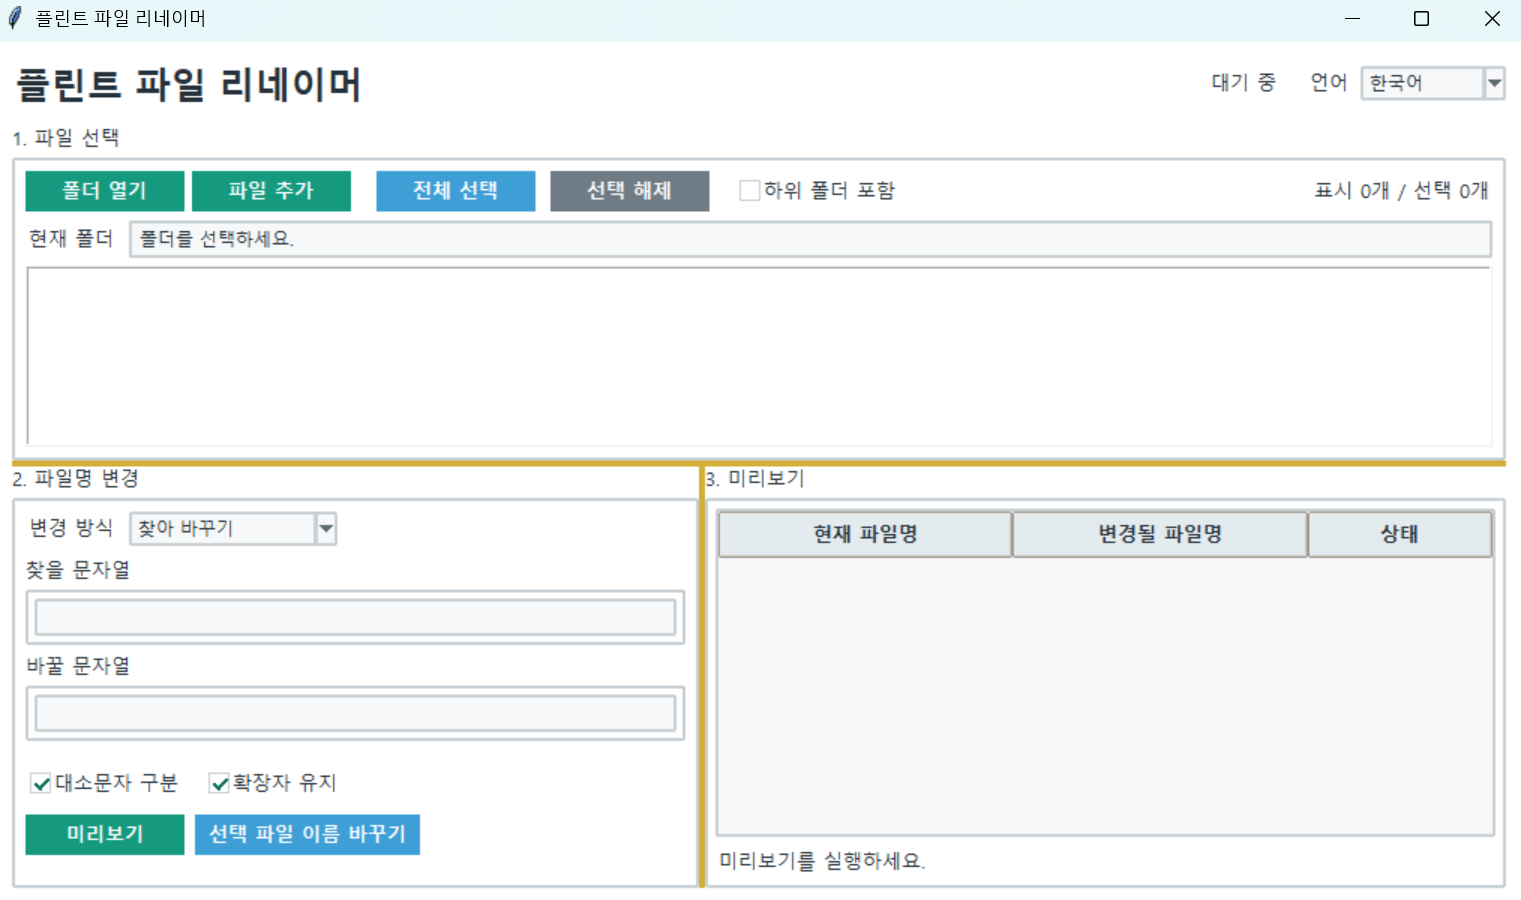
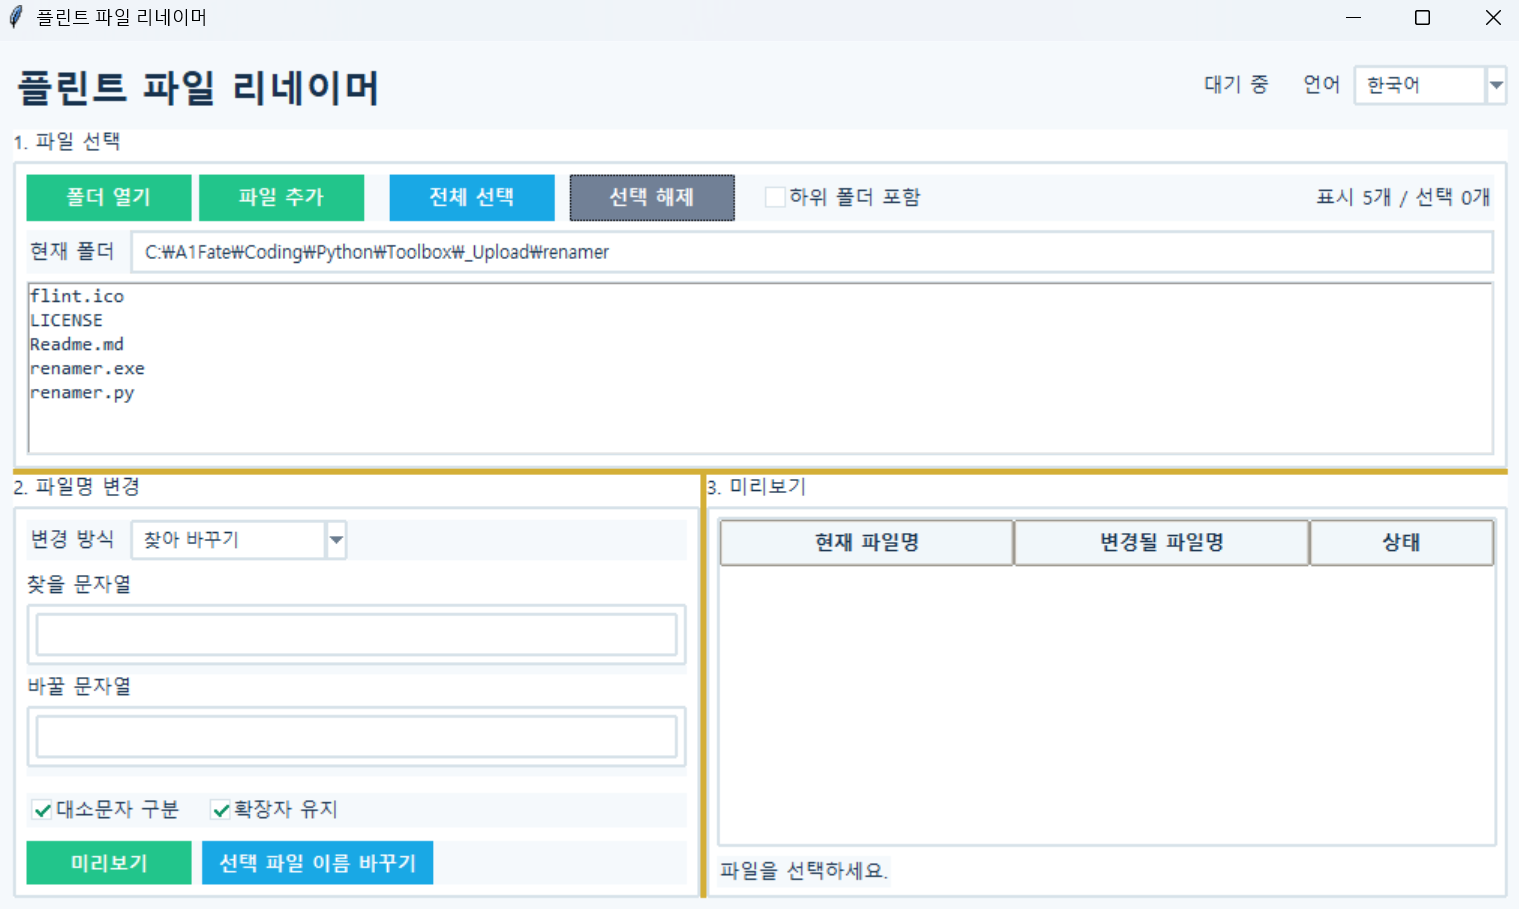
Update badamail: 8 files

diff --git a/toolbox/ffr.html b/toolbox/ffr.html
@@ -1,0 +1,65 @@
+<!doctype html>
+<html lang="ko">
+<head>
+  <meta charset="utf-8">
+  <meta name="viewport" content="width=device-width, initial-scale=1">
+  <title>플린트 파일 리네이머 | 플린트의 공구함</title>
+  <meta name="description" content="여러 파일의 이름을 한 번에 변경하는 도구입니다. 단순한 문자열 치환뿐 아니라 문자열 삭제, 앞·뒤 문자열 추가, 번호 붙이기, 이름과 번호를 이용한 일괄 변경을 지원합니다.">
+  <meta name="robots" content="index, follow">
+  <meta property="og:site_name" content="Blackship">
+  <meta property="og:title" content="플린트 파일 리네이머 | 플린트의 공구함">
+  <meta property="og:description" content="여러 파일의 이름을 한 번에 변경하는 도구입니다. 단순한 문자열 치환뿐 아니라 문자열 삭제, 앞·뒤 문자열 추가, 번호 붙이기, 이름과 번호를 이용한 일괄 변경을 지원합니다.">
+  <meta property="og:type" content="website">
+  <link rel="alternate" hreflang="ko" href="https://blackship.kr/toolbox/ffr.html">
+  <link rel="alternate" hreflang="en" href="https://blackship.kr/en/toolbox/ffr.html">
+  <link rel="alternate" hreflang="x-default" href="https://blackship.kr/toolbox/ffr.html">
+  <link rel="icon" href="../favicon.ico" type="image/x-icon">
+  <link rel="stylesheet" href="../style.css">
+</head>
+<body>
+  <header class="site-header">
+    <a class="logo" href="../index.html">Blackship</a>
+    <nav class="nav">
+
+      <a href="../index.html">홈</a>
+      <a href="../hidden.html">💎 숨은 보물</a>
+      <a href="../value.html">💰 가성비 보물</a>
+      <a href="../popular.html">🔥 인기 보물</a>
+      <a href="../random.html">🎲 랜덤 보물</a>
+      <a href="../toolbox.html">🧰 공구함</a>
+      <a href="../badamail.html">바다메일</a>
+    </nav>
+  </header>
+
+  <main>
+    
+        <article class="detail toolbox-detail">
+          <div class="toolbox-detail-media">
+            <img src="images/ffr.png" alt="플린트 파일 리네이머" loading="lazy">
+          </div>
+          <div class="toolbox-detail-content">
+            <h1>플린트 파일 리네이머</h1>
+            <p class="toolbox-detail-version">버전: 1.0.0</p>
+            <div class="toolbox-detail-description">
+              <h2>Flint File Renamer</h2><p>여러 파일의 이름을 한 번에 변경하는 도구입니다.</p><p>단순한 문자열 치환뿐 아니라 문자열 삭제, 앞·뒤 문자열 추가, 번호 붙이기, 이름과 번호를 이용한 일괄 변경을 지원합니다.</p><h3>사용 방법</h3><ol><li><code>폴더 열기</code>를 눌러 파일이 있는 폴더를 선택합니다.</li><li>이름을 변경할 파일을 선택합니다.</li><li><code>변경 방식</code>에서 원하는 이름 변경 방식을 선택합니다.</li><li>필요한 문자열이나 번호 설정을 입력합니다.</li><li>오른쪽 미리보기에서 변경될 파일명을 확인합니다.</li><li><code>선택 파일 이름 바꾸기</code>를 눌러 변경합니다.</li></ol><h3>변경 방식</h3><ul><li><code>찾아 바꾸기</code>: 파일명에서 특정 문자열을 찾아 다른 문자열로 변경</li><li><code>문자열 삭제</code>: 파일명에서 지정한 문자열 삭제</li><li><code>앞에 붙이기</code>: 기존 파일명 앞에 문자열 추가</li><li><code>뒤에 붙이기</code>: 기존 파일명 뒤에 문자열 추가</li><li><code>번호 붙이기</code>: 기존 파일명 뒤에 순번 추가</li><li><code>이름 + 번호</code>: 지정한 기본 이름과 순번으로 파일명 통일</li></ul><p>번호를 사용하는 방식에서는 시작 번호와 자릿수를 지정할 수 있습니다.</p><p>예시:</p><pre><code class="language-text">photo.jpg
+photo_001.jpg
+photo_002.jpg</code></pre><p>또는:</p><pre><code class="language-text">여행_001.jpg
+여행_002.jpg
+여행_003.jpg</code></pre><h3>주요 기능</h3><ul><li>여러 파일명 일괄 변경</li><li>다양한 이름 변경 방식 지원</li><li>시작 번호 및 번호 자릿수 설정</li><li>변경될 파일명 자동 미리보기</li><li>하위 폴더 포함</li><li>대소문자 구분 선택</li><li>확장자 유지 선택</li><li>중복 파일명 검사</li><li>Windows 금지문자 검사</li><li>기존 파일과의 이름 충돌 방지</li><li>임시 파일명을 이용한 안전한 일괄 변경</li></ul><p>실행:</p><pre><code class="language-bash">python renamer.py</code></pre><blockquote><p><code>참고:</code> 실행 파일(EXE) 버전을 사용하는 경우에는 python 명령을 실행할 필요가 없습니다.</p></blockquote>
+            </div>
+            <div class="toolbox-detail-actions">
+              <a class="buy-button" href="https://github.com/flinthawke/toolbox/releases/download/ffr-v1.0.0/ffr.1.0.0.portable.zip">다운로드</a> <a class="badamail-link" href="https://github.com/flinthawke/toolbox/releases/tag/ffr-v1.0.0" target="_blank" rel="noopener">GitHub에서 소스 보기</a>
+            </div>
+            <p class="toolbox-detail-back"><a class="badamail-link" href="../toolbox.html">공구함으로 돌아가기</a></p>
+          </div>
+        </article>
+        
+  </main>
+
+  <footer class="site-footer">
+    <p>본 프로그램은 있는 그대로(AS IS) 제공됩니다. 사용으로 인해 발생하는 데이터 손실이나 기타 문제에 대해서는 책임을 지지 않습니다.</p>
+    <p>중요한 파일은 반드시 백업한 후 사용하시기 바랍니다.</p>
+  </footer>
+  <img class="visitor-counter-tracker" src="https://hits.sh/blackship.kr.svg?label=visitors&amp;color=000000&amp;labelColor=000000" alt="" width="1" height="1" aria-hidden="true">
+</body>
+</html>

diff --git a/en/toolbox/ffr.html b/en/toolbox/ffr.html
@@ -1,0 +1,72 @@
+<!doctype html>
+<html lang="en">
+<head>
+  <meta charset="utf-8">
+  <meta name="viewport" content="width=device-width, initial-scale=1">
+  <title>Flint File Renamer | Flint&#x27;s Toolbox</title>
+  <meta name="description" content="A tool for renaming multiple files at once. In addition to simple text replacement, it supports removing text, adding prefixes or suffixes, numbering files, and batch renaming using a custom name and sequence numbers.">
+  <meta name="robots" content="index, follow">
+  <meta property="og:site_name" content="Blackship">
+  <meta property="og:title" content="Flint File Renamer | Flint&#x27;s Toolbox">
+  <meta property="og:description" content="A tool for renaming multiple files at once. In addition to simple text replacement, it supports removing text, adding prefixes or suffixes, numbering files, and batch renaming using a custom name and sequence numbers.">
+  <meta property="og:type" content="website">
+  <link rel="alternate" hreflang="ko" href="https://blackship.kr/toolbox/ffr.html">
+  <link rel="alternate" hreflang="en" href="https://blackship.kr/en/toolbox/ffr.html">
+  <link rel="alternate" hreflang="x-default" href="https://blackship.kr/toolbox/ffr.html">
+  <link rel="icon" href="../favicon.ico" type="image/x-icon">
+  <link rel="stylesheet" href="../style.css">
+</head>
+<body>
+  <header class="site-header">
+    <a class="logo" href="../index.html">Blackship</a>
+    <nav class="nav">
+
+      <a href="../index.html">Home</a>
+      <a href="../hidden.html">💎 Hidden Treasures</a>
+      <a href="../value.html">💰 Value Treasures</a>
+      <a href="../popular.html">🔥 Popular Treasures</a>
+      <a href="../random.html">🎲 Random Treasure</a>
+      <a href="../toolbox.html">🧰 Toolbox</a>
+      <a href="../badamail.html">Sea Mail</a>
+    </nav>
+  </header>
+
+  <main>
+    
+        <article class="detail toolbox-detail">
+          <div class="toolbox-detail-media">
+            <img src="images/ffr_en.png" alt="Flint File Renamer" loading="lazy">
+          </div>
+          <div class="toolbox-detail-content">
+            <h1>Flint File Renamer</h1>
+            <p class="toolbox-detail-version">Version: 1.0.0</p>
+            <div class="toolbox-detail-description">
+              <h2>Flint File Renamer</h2><p>A tool for renaming multiple files at once.</p><p>In addition to simple text replacement, it supports removing text, adding prefixes or suffixes, numbering files, and batch renaming using a custom name and sequence numbers.</p><h3>How to Use</h3><ol><li>Click <code>Open Folder</code> and select the folder containing the files.</li><li>Select the files you want to rename.</li><li>Choose the desired renaming method under <code>Rename Method</code>.</li><li>Enter the required text or numbering settings.</li><li>Check the new file names in the preview on the right.</li><li>Click <code>Rename Selected Files</code> to apply the changes.</li></ol><h3>Rename Methods</h3><ul><li><code>Find and Replace</code>: Find specific text in file names and replace it with different text</li><li><code>Remove Text</code>: Remove specified text from file names</li><li><code>Add Prefix</code>: Add text to the beginning of existing file names</li><li><code>Add Suffix</code>: Add text to the end of existing file names</li><li><code>Add Number</code>: Add sequence numbers to existing file names</li><li><code>Name + Number</code>: Rename files using a specified base name and sequence numbers</li></ul><p>For methods that use numbering, you can specify the starting number and number of digits.</p><p>Example:</p><p>```text id="18smrz"<br>
+photo.jpg<br>
+photo_001.jpg<br>
+photo_002.jpg</p><pre><code>
+Or:
+
+```text id="70z7c3"
+travel_001.jpg
+travel_002.jpg
+travel_003.jpg</code></pre><h3>Features</h3><ul><li>Batch rename multiple files</li><li>Multiple renaming methods</li><li>Custom starting number and number of digits</li><li>Automatic preview of new file names</li><li>Include subfolders</li><li>Optional case-sensitive matching</li><li>Option to preserve file extensions</li><li>Duplicate file name detection</li><li>Windows invalid character validation</li><li>Prevention of file name conflicts with existing files</li><li>Safe batch renaming using temporary file names</li></ul><p>Run:</p><p>```bash id="26n7sv"<br>
+python renamer.py</p><pre><code>
+&gt; **Note:** If you are using the executable (EXE) version, you do not need to run any Python commands.</code></pre>
+            </div>
+            <div class="toolbox-detail-actions">
+              <a class="buy-button" href="https://github.com/flinthawke/toolbox/releases/download/ffr-v1.0.0/ffr.1.0.0.portable.zip">Download</a> <a class="badamail-link" href="https://github.com/flinthawke/toolbox/releases/tag/ffr-v1.0.0" target="_blank" rel="noopener">View source on GitHub</a>
+            </div>
+            <p class="toolbox-detail-back"><a class="badamail-link" href="../toolbox.html">Back to Toolbox</a></p>
+          </div>
+        </article>
+        
+  </main>
+
+  <footer class="site-footer">
+    <p>This program is provided AS IS, without any warranty. The author is not responsible for data loss or any other issues resulting from its use.</p>
+    <p>Please back up important files before using this program.</p>
+  </footer>
+  <img class="visitor-counter-tracker" src="https://hits.sh/blackship.kr.svg?label=visitors&amp;color=000000&amp;labelColor=000000" alt="" width="1" height="1" aria-hidden="true">
+</body>
+</html>

diff --git a/toolbox.html b/toolbox.html
@@ -36,6 +36,20 @@
   <main>
     <h1>플린트의 공구함</h1><p>플린트호크가 항해에 쓸 만한 도구를 모아둔 공구함입니다.<br>원자력포, 반중력 순항장치, 대왕문어 퇴치기 등도 있지만 공개하지 않습니다.</p><div class="update-notice"><strong>Windows 실행 안내</strong><br>Windows에서 다운로드한 실행 파일이 보안 기능에 의해 차단될 수 있습니다.<br>실행되지 않는 경우 파일을 마우스 오른쪽 버튼으로 클릭한 후 <strong>속성 → 차단 해제 → 적용</strong>을 선택하고 다시 실행해 주세요.<br>Flint 도구는 별도의 코드 서명 인증서를 사용하지 않으므로 <strong>알 수 없는 게시자</strong>로 표시될 수 있습니다.</div><section class="grid">
         <article class="product-card card toolbox-card">
+          <a class="toolbox-card-media" href="toolbox/ffr.html">
+            <img src="toolbox/images/ffr.png" alt="플린트 파일 리네이머" loading="lazy">
+          </a>
+          <div class="product-body card-body toolbox-card-body">
+            <h2><a href="toolbox/ffr.html">플린트 파일 리네이머</a></h2>
+            <p>여러 파일의 이름을 한 번에 변경하는 도구입니다. 단순한 문자열 치환뿐 아니라 문자열 삭제, 앞·뒤 문자열 추가, 번호 붙이기, 이름과 번호를 이용한 일괄 변경을 지원합니다.</p>
+            <div class="toolbox-card-footer">
+              <p class="toolbox-card-version">버전: 1.0.0</p>
+              <a class="buy-button" href="toolbox/ffr.html">설명 및 설치 방법</a>
+            </div>
+          </div>
+        </article>
+        
+        <article class="product-card card toolbox-card">
           <a class="toolbox-card-media" href="toolbox/fnw.html">
             <img src="toolbox/images/fnw.png" alt="플린트 네트워커" loading="lazy">
           </a>

diff --git a/en/toolbox.html b/en/toolbox.html
@@ -36,6 +36,20 @@ It also contains a nuclear cannon, an anti-gravity cruise system, and a giant sq
   <main>
     <h1>Flint&#x27;s Toolbox</h1><p>Flinthawk&#x27;s toolbox is stocked with useful gear for the voyage.<br>It also contains a nuclear cannon, an anti-gravity cruise system, and a giant squid repeller, but those are not available to the public.</p><div class="update-notice"><strong>Windows Run Notice</strong><br>Windows security features may block executable files downloaded from the internet.<br>If an application does not run, right-click the file and select <strong>Properties → Unblock → Apply</strong>, then try again.<br>Because Flint tools are not digitally signed with a code-signing certificate, Windows may display <strong>Unknown publisher</strong>.</div><section class="grid">
         <article class="product-card card toolbox-card">
+          <a class="toolbox-card-media" href="toolbox/ffr.html">
+            <img src="toolbox/images/ffr_en.png" alt="Flint File Renamer" loading="lazy">
+          </a>
+          <div class="product-body card-body toolbox-card-body">
+            <h2><a href="toolbox/ffr.html">Flint File Renamer</a></h2>
+            <p>A tool for renaming multiple files at once. In addition to simple text replacement, it supports removing text, adding prefixes or suffixes, numbering files, and batch renaming using a custom name and sequence numbers.</p>
+            <div class="toolbox-card-footer">
+              <p class="toolbox-card-version">Version: 1.0.0</p>
+              <a class="buy-button" href="toolbox/ffr.html">View details</a>
+            </div>
+          </div>
+        </article>
+        
+        <article class="product-card card toolbox-card">
           <a class="toolbox-card-media" href="toolbox/fnw.html">
             <img src="toolbox/images/fnw_en.png" alt="Flint Networker" loading="lazy">
           </a>
